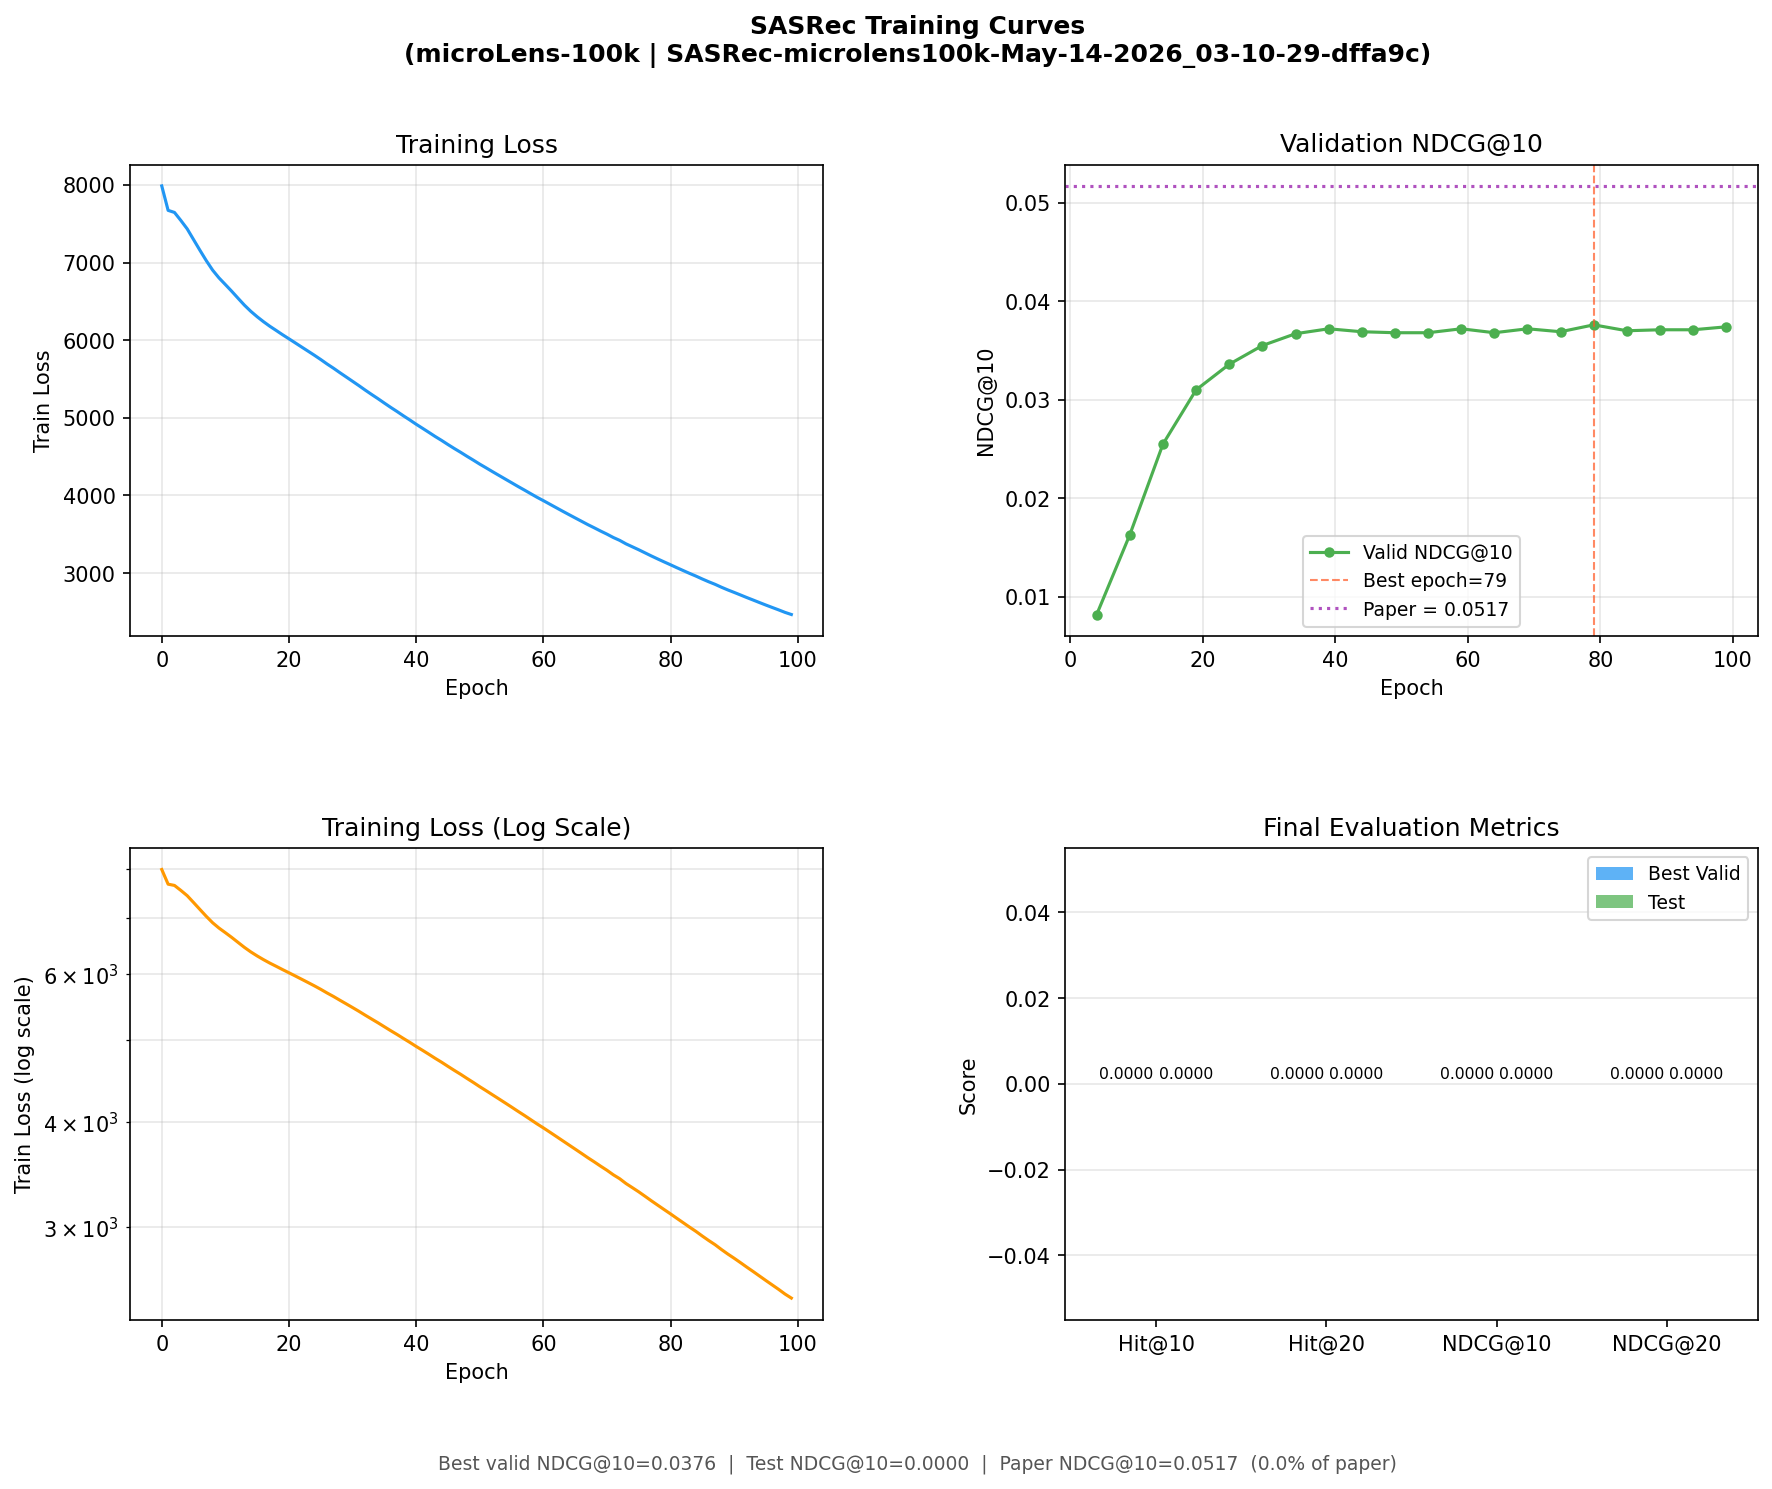
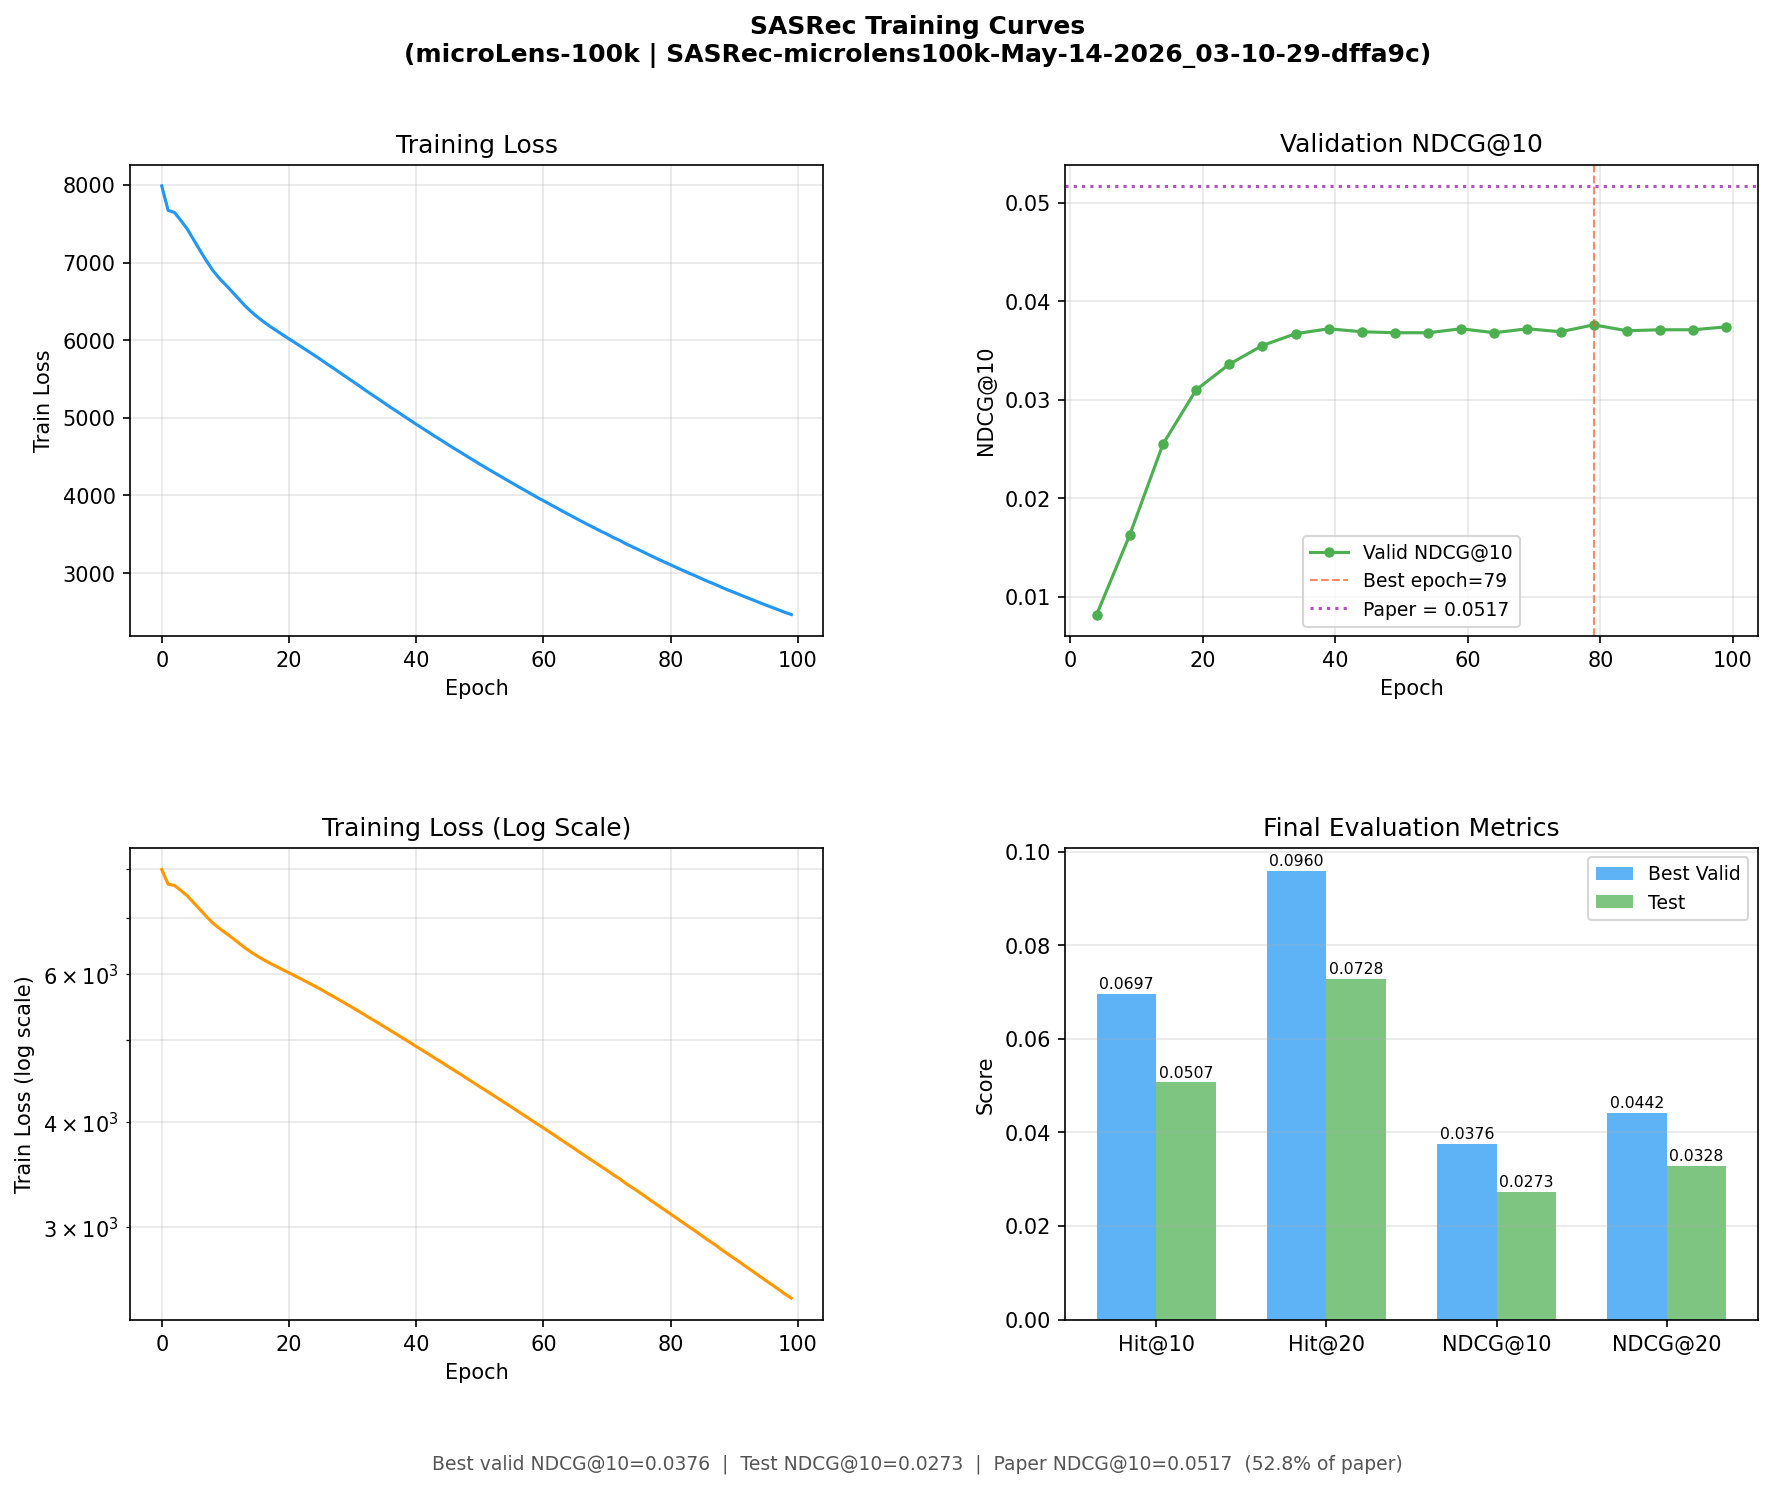
fix best_valid/test_result parsing in plot script
regex was matching 'key : value' but RecBole logs use OrderedDict format
"'hit@10', 0.075" — fix to use '([\w@]+)',\s*([\d.]+) pattern

diff --git a/plot_learning_curves.py b/plot_learning_curves.py
@@ -30,7 +30,7 @@ def parse_log(log_path):
 
     train_pat = re.compile(r"epoch (\d+) training \[time:.+, train loss: ([\d.]+)\]")
     eval_pat  = re.compile(r"epoch (\d+) evaluating \[time:.+, valid_score: ([\d.]+)\]")
-    kv_pat    = re.compile(r"([\w@]+) : ([\d.]+)")
+    kv_pat    = re.compile(r"'([\w@]+)',\s*([\d.]+)")
 
     with open(log_path) as f:
         lines = f.readlines()
